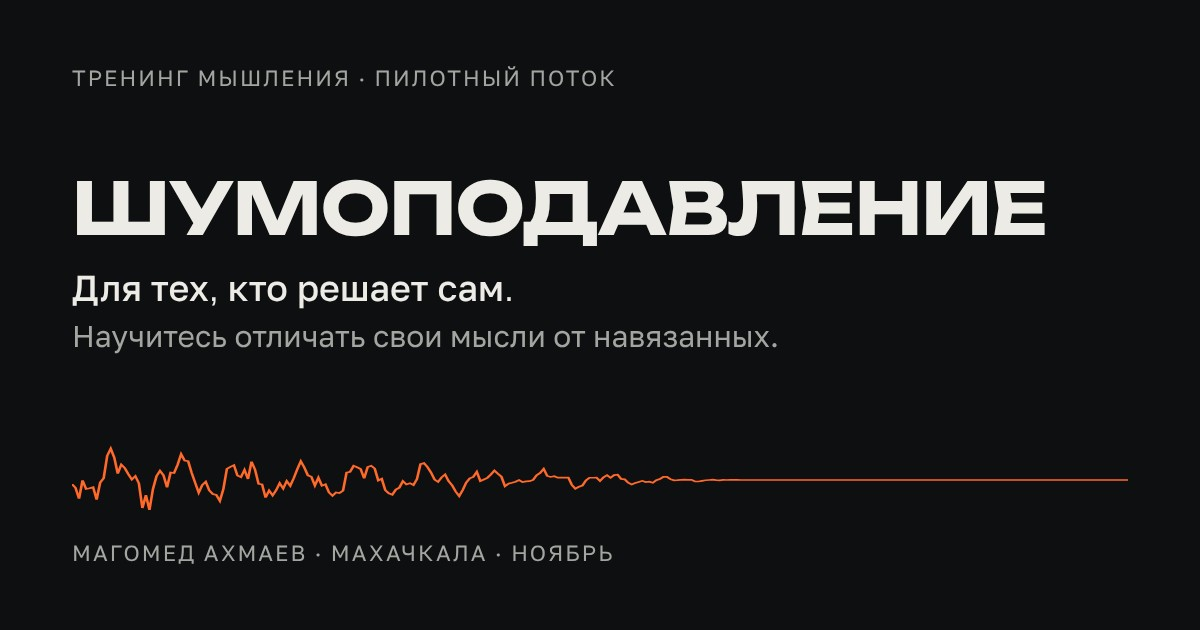
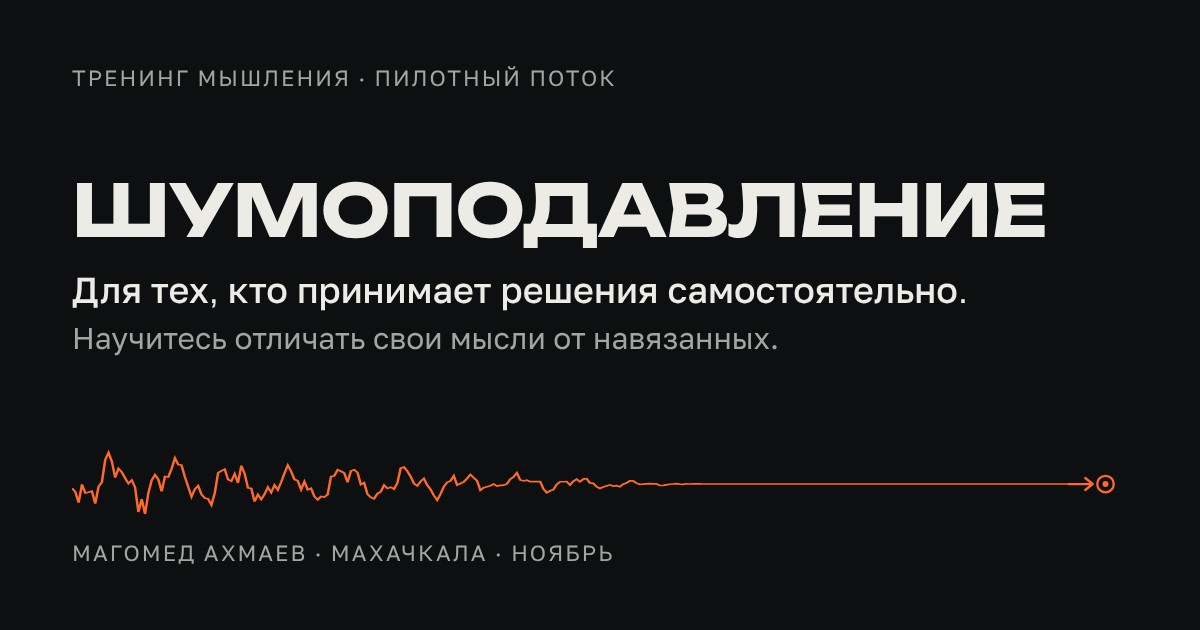
Финальные формулировки страницы «Шумоподавление»
Подзаголовок, первое лицо, новые описания режимов, «Для кого» (+2),
«Сила группы», цена 15 000 ₽ / 12 000 ₽ до 25 октября, группа от 6,
стрелка к цели в конце волны, обновлено превью.

Claude-Session: https://claude.ai/code/session_011g97CJnTaq4hGHjPpDkVKv

diff --git a/index.html b/index.html
@@ -4,10 +4,10 @@
 <meta charset="utf-8">
 <meta name="viewport" content="width=device-width, initial-scale=1">
 <title>Шумоподавление — тренинг мышления</title>
-<meta name="description" content="Тренинг мышления для тех, кто решает сам. Научитесь отличать свои мысли от навязанных. Пилотный поток Магомеда Ахмаева: Махачкала, ноябрь, 8 мест.">
+<meta name="description" content="Тренинг мышления для тех, кто принимает решения самостоятельно. Научитесь отличать свои мысли от навязанных. Пилотный поток Магомеда Ахмаева: Махачкала, ноябрь.">
 <meta property="og:type" content="website">
 <meta property="og:title" content="Шумоподавление — тренинг мышления">
-<meta property="og:description" content="Тренинг мышления для тех, кто решает сам. Научитесь отличать свои мысли от навязанных. Пилотный поток Магомеда Ахмаева: Махачкала, ноябрь, 8 мест.">
+<meta property="og:description" content="Тренинг мышления для тех, кто принимает решения самостоятельно. Научитесь отличать свои мысли от навязанных. Пилотный поток Магомеда Ахмаева: Махачкала, ноябрь.">
 <meta property="og:image" content="https://akhmaev.com/og.jpg">
 <meta property="og:url" content="https://akhmaev.com/">
 <link rel="canonical" href="https://akhmaev.com/">
@@ -44,21 +44,21 @@ a:focus-visible{outline:3px solid #FF6A2B;outline-offset:3px}
 <span style="position: absolute; left: 58%; top: 0%;">все так делают</span>
 <span style="position: absolute; left: 30%; top: 8%;">без связей не пробиться</span>
 <span style="position: absolute; left: 72%; top: 12%;">клиент выбирает по цене</span>
-<span style="position: absolute; left: 4%; top: 92%;">в моём возрасте поздно</span>
-<span style="position: absolute; left: 62%; top: 96%;">сначала стабильность</span>
-<span style="position: absolute; left: 36%; top: 100%;">так говорят</span>
+<span style="position: absolute; left: 6%; top: 130%;">в моём возрасте поздно</span>
+<span style="position: absolute; left: 48%; top: 112%;">сначала стабильность</span>
+<span style="position: absolute; left: 30%; top: 140%;">так говорят</span>
 <span style="position: absolute; left: 84%; top: 86%;">рынок мёртвый</span>
 </div>
 <div style="position: relative; padding: 110px 0 24px;">
 <h1 style="margin: 0; font-family: 'Unbounded', 'Golos Text', sans-serif; font-weight: 700; font-size: clamp(33px, 6.6vw, 78px); line-height: 1.05; letter-spacing: -0.02em; text-transform: uppercase; hyphens: manual;">Шумо&shy;подавление</h1>
 <div style="display: flex; flex-wrap: wrap; gap: 32px 48px; align-items: flex-start;">
 <div style="flex: 999 1 440px; min-width: 0;">
-<p style="margin: 28px 0 0; font-size: clamp(22px, 2.6vw, 32px); line-height: 1.25; font-weight: 500; max-width: 760px;">Тренинг мышления для тех, кто решает сам.</p>
+<p style="margin: 28px 0 0; font-size: clamp(22px, 2.6vw, 32px); line-height: 1.25; font-weight: 500; max-width: 760px;">Тренинг мышления для тех, кто принимает решения самостоятельно.</p>
 <p style="margin: 10px 0 0; font-size: clamp(19px, 2vw, 24px); line-height: 1.35; color: #A3A5A0; max-width: 760px;">Научитесь отличать свои мысли от навязанных.</p>
 <div style="display: flex; flex-wrap: wrap; gap: 16px 24px; align-items: center; margin-top: 40px;">
 <a href="https://t.me/akhmaevm" style="display: inline-flex; align-items: center; gap: 10px; min-height: 56px; padding: 0 30px; background: #FF6A2B; color: #0E0F11; text-decoration: none; font-weight: 600; font-size: 18px; border-radius: 999px;">Записаться в Telegram
 <svg width="18" height="18" viewBox="0 0 24 24" fill="none" stroke="currentColor" stroke-width="2" stroke-linecap="round" stroke-linejoin="round" aria-hidden="true"><path d="M5 12h14M13 6l6 6-6 6"></path></svg></a>
-<span style="font-size: 15px; color: #A3A5A0;">4 встречи · 6–8 человек · 12 000 ₽</span>
+<span style="font-size: 15px; color: #A3A5A0;">Напишите мне — сначала коротко поговорим, без обязательств.</span>
 </div>
 </div>
 <div style="flex: 0 1 400px; margin: 0 auto;">
@@ -66,26 +66,33 @@ a:focus-visible{outline:3px solid #FF6A2B;outline-offset:3px}
 </div>
 </div>
 </div>
-<svg viewBox="0 0 1200 160" preserveAspectRatio="none" aria-hidden="true" style="display: block; width: 100%; height: 120px;">
+<div aria-hidden="true" style="display: flex; align-items: stretch;">
+<svg viewBox="0 0 1200 160" preserveAspectRatio="none" style="display: block; flex: 1 1 auto; min-width: 0; height: 120px;">
 <path d="M0.0 89.0 L4.0 96.1 L8.0 118.6 L12.0 80.8 L16.0 98.6 L20.0 97.2 L24.0 94.8 L28.0 120.6 L32.0 85.4 L36.0 76.2 L40.0 29.8 L44.0 14.7 L48.0 33.1 L52.0 66.5 L56.0 47.8 L60.0 55.2 L64.0 67.8 L68.0 78.9 L72.0 71.9 L76.0 87.0 L80.0 138.5 L84.0 111.9 L88.0 142.8 L92.0 98.8 L96.0 72.2 L100.0 60.8 L104.0 70.1 L108.0 95.6 L112.0 64.3 L116.0 65.4 L120.0 47.8 L124.0 25.6 L128.0 39.2 L132.0 40.6 L136.0 65.0 L140.0 86.1 L144.0 106.8 L148.0 90.7 L152.0 83.9 L156.0 102.0 L160.0 109.8 L164.0 111.5 L168.0 124.0 L172.0 99.2 L176.0 56.3 L180.0 52.3 L184.0 48.5 L188.0 70.5 L192.0 74.0 L196.0 58.5 L200.0 77.9 L204.0 41.1 L208.0 57.8 L212.0 88.3 L216.0 89.5 L220.0 117.5 L224.0 102.5 L228.0 113.1 L232.0 101.8 L236.0 87.0 L240.0 98.3 L244.0 82.4 L248.0 92.6 L252.0 76.0 L256.0 57.0 L260.0 39.7 L264.0 52.9 L268.0 70.0 L272.0 72.9 L276.0 91.9 L280.0 75.0 L284.0 92.2 L288.0 89.4 L292.0 107.1 L296.0 114.2 L300.0 107.0 L304.0 108.5 L308.0 103.1 L312.0 63.8 L316.0 62.2 L320.0 49.1 L324.0 52.2 L328.0 56.0 L332.0 76.5 L336.0 51.5 L340.0 48.8 L344.0 54.9 L348.0 81.1 L352.0 77.3 L356.0 102.4 L360.0 109.4 L364.0 112.5 L368.0 101.2 L372.0 97.0 L376.0 82.5 L380.0 89.8 L384.0 87.2 L388.0 91.2 L392.0 77.8 L396.0 44.6 L400.0 42.1 L404.0 50.9 L408.0 63.3 L412.0 78.9 L416.0 84.0 L420.0 74.1 L424.0 67.4 L428.0 82.7 L432.0 92.1 L436.0 106.2 L440.0 116.9 L444.0 102.9 L448.0 85.6 L452.0 76.3 L456.0 73.0 L460.0 61.3 L464.0 82.4 L468.0 78.8 L472.0 74.9 L476.0 67.0 L480.0 57.9 L484.0 65.5 L488.0 72.4 L492.0 94.5 L496.0 88.4 L500.0 86.5 L504.0 84.0 L508.0 80.2 L512.0 85.0 L516.0 83.2 L520.0 82.7 L524.0 79.7 L528.0 68.4 L532.0 62.9 L536.0 52.8 L540.0 70.0 L544.0 72.5 L548.0 70.8 L552.0 74.2 L556.0 74.3 L560.0 73.9 L564.0 73.8 L568.0 92.2 L572.0 101.9 L576.0 97.2 L580.0 94.2 L584.0 81.1 L588.0 74.2 L592.0 74.1 L596.0 73.6 L600.0 82.5 L604.0 72.9 L608.0 67.1 L612.0 73.9 L616.0 66.7 L620.0 65.3 L624.0 77.1 L628.0 78.2 L632.0 87.8 L636.0 92.5 L640.0 88.9 L644.0 85.7 L648.0 82.4 L652.0 86.0 L656.0 85.1 L660.0 88.5 L664.0 80.7 L668.0 77.0 L672.0 69.8 L676.0 69.4 L680.0 77.2 L684.0 81.1 L688.0 80.7 L692.0 79.4 L696.0 78.8 L700.0 79.7 L704.0 79.6 L708.0 85.5 L712.0 86.6 L716.0 83.9 L720.0 81.3 L724.0 79.9 L728.0 78.4 L732.0 80.8 L736.0 82.5 L740.0 79.6 L744.0 80.2 L748.0 78.3 L752.0 77.1 L756.0 75.4 L760.0 77.0 L764.0 79.2 L768.0 80.4 L772.0 80.6 L776.0 81.2 L780.0 81.6 L784.0 81.7 L788.0 81.4 L792.0 81.9 L796.0 81.7 L800.0 79.9 L804.0 79.9 L808.0 79.7 L812.0 79.7 L816.0 79.9 L820.0 80.0 L824.0 80.0 L828.0 80.0 L832.0 80.0 L836.0 80.0 L840.0 80.0 L844.0 80.0 L848.0 80.0 L852.0 80.0 L856.0 80.0 L860.0 80.0 L864.0 80.0 L868.0 80.0 L872.0 80.0 L876.0 80.0 L880.0 80.0 L884.0 80.0 L888.0 80.0 L892.0 80.0 L896.0 80.0 L900.0 80.0 L904.0 80.0 L908.0 80.0 L912.0 80.0 L916.0 80.0 L920.0 80.0 L924.0 80.0 L928.0 80.0 L932.0 80.0 L936.0 80.0 L940.0 80.0 L944.0 80.0 L948.0 80.0 L952.0 80.0 L956.0 80.0 L960.0 80.0 L964.0 80.0 L968.0 80.0 L972.0 80.0 L976.0 80.0 L980.0 80.0 L984.0 80.0 L988.0 80.0 L992.0 80.0 L996.0 80.0 L1000.0 80.0 L1004.0 80.0 L1008.0 80.0 L1012.0 80.0 L1016.0 80.0 L1020.0 80.0 L1024.0 80.0 L1028.0 80.0 L1032.0 80.0 L1036.0 80.0 L1040.0 80.0 L1044.0 80.0 L1048.0 80.0 L1052.0 80.0 L1056.0 80.0 L1060.0 80.0 L1064.0 80.0 L1068.0 80.0 L1072.0 80.0 L1076.0 80.0 L1080.0 80.0 L1084.0 80.0 L1088.0 80.0 L1092.0 80.0 L1096.0 80.0 L1100.0 80.0 L1104.0 80.0 L1108.0 80.0 L1112.0 80.0 L1116.0 80.0 L1120.0 80.0 L1124.0 80.0 L1128.0 80.0 L1132.0 80.0 L1136.0 80.0 L1140.0 80.0 L1144.0 80.0 L1148.0 80.0 L1152.0 80.0 L1156.0 80.0 L1160.0 80.0 L1164.0 80.0 L1168.0 80.0 L1172.0 80.0 L1176.0 80.0 L1180.0 80.0 L1184.0 80.0 L1188.0 80.0 L1192.0 80.0 L1196.0 80.0 L1200.0 80.0" fill="none" stroke="#FF6A2B" stroke-width="2" stroke-linejoin="round"></path>
 </svg>
+<svg viewBox="0 0 64 120" style="display: block; flex: 0 0 64px; width: 64px; height: 120px;">
+<path d="M0 60 L32 60 M23 52 L33 60 L23 68" fill="none" stroke="#FF6A2B" stroke-width="2" stroke-linecap="round" stroke-linejoin="round"></path>
+<circle cx="50" cy="60" r="11" fill="none" stroke="#FF6A2B" stroke-width="2"></circle>
+<circle cx="50" cy="60" r="4" fill="#FF6A2B"></circle>
+</svg>
+</div>
 </header>
 
 <!-- ПРОБЛЕМА -->
 <section style="max-width: 1200px; margin: 0 auto; padding: 96px 20px; box-sizing: border-box;">
-<p style="margin: 0; font-family: 'Unbounded', 'Golos Text', sans-serif; font-weight: 500; font-size: clamp(30px, 5vw, 64px); line-height: 1.1; letter-spacing: -0.01em; max-width: 980px;">Громче всех в вашей голове — <span style="color: #FF6A2B;">не вы.</span></p>
+<p style="margin: 0; font-family: 'Unbounded', 'Golos Text', sans-serif; font-weight: 500; font-size: clamp(30px, 5vw, 64px); line-height: 1.1; letter-spacing: -0.01em; max-width: 980px;">Громче всех в вашей голове звучите не вы, а <span style="color: #FF6A2B;">шум.</span></p>
 <div style="display: flex; flex-wrap: wrap; gap: 24px 64px; margin-top: 48px;">
-<p style="flex: 1 1 320px; margin: 0; font-size: 20px; color: #C9CAC5;">«Сейчас не время». «Клиент выбирает по цене». «Без связей не пробиться». «В моём возрасте поздно». Мы слышим это так часто, что начинаем принимать за собственный вывод.</p>
+<p style="flex: 1 1 320px; margin: 0; font-size: 20px; color: #C9CAC5;">Я вижу это в себе и в людях, с которыми работаю: мы уверены во многом, что ни разу не проверяли. «Сейчас не время». «Клиент выбирает по цене». «Без связей не пробиться». «В моём возрасте поздно». Мы слышим это так часто, что начинаем принимать за собственный вывод.</p>
 <p style="flex: 1 1 320px; margin: 0; font-size: 20px; color: #C9CAC5;">Проверить всё невозможно — и не нужно. Но некоторые из этих фраз тихо решают за нас: за какую работу браться, сколько просить, когда начинать. Они стоят денег, лет и возможностей.</p>
 </div>
-<p style="margin: 40px 0 0; font-size: 22px; font-weight: 500;">Этот тренинг — про то, как вовремя заметить, что решаете не вы.</p>
+<p style="margin: 40px 0 0; font-size: 22px; font-weight: 500; max-width: 900px;">Я сделал этот тренинг, чтобы научиться замечать, где решаете не вы, — и вернуть себе управление: сначала мыслями, потом поступками, а через них — своей жизнью.</p>
 </section>
 
 <!-- ДЛЯ КОГО -->
 <section style="border-top: 1px solid #2A2D32;">
 <div style="max-width: 1200px; margin: 0 auto; padding: 96px 20px; box-sizing: border-box;">
 <h2 style="margin: 0; font-family: 'Unbounded', 'Golos Text', sans-serif; font-weight: 500; font-size: clamp(28px, 3.6vw, 44px); line-height: 1.15;">Для кого</h2>
-<div style="display: grid; grid-template-columns: repeat(auto-fit, minmax(250px, 1fr)); gap: 16px; margin-top: 40px;">
+<div style="display: grid; grid-template-columns: repeat(auto-fit, minmax(300px, 1fr)); gap: 16px; margin-top: 40px;">
 <div style="background: #17191C; padding: 28px; border-radius: 16px;">
 <h3 style="margin: 0; font-size: 20px; font-weight: 600;">Предприниматели и руководители</h3>
 <p style="margin: 10px 0 0; color: #A3A5A0;">Решения дорогие, советчиков много, а отвечать вам. Хочется понимать, на чём на самом деле стоит ваша уверенность.</p>
@@ -95,8 +102,12 @@ a:focus-visible{outline:3px solid #FF6A2B;outline-offset:3px}
 <p style="margin: 10px 0 0; color: #A3A5A0;">Давно хотите поменять работу, поднять цену, начать своё — и каждый раз находится убедительная причина подождать.</p>
 </div>
 <div style="background: #17191C; padding: 28px; border-radius: 16px;">
-<h3 style="margin: 0; font-size: 20px; font-weight: 600;">Те, кто много читает</h3>
-<p style="margin: 10px 0 0; color: #A3A5A0;">Знаете про искажения и ловушки мышления, но замечаете, что знание почти не меняет ваших решений.</p>
+<h3 style="margin: 0; font-size: 20px; font-weight: 600;">Те, кто устал от потока информации</h3>
+<p style="margin: 10px 0 0; color: #A3A5A0;">Каналы, новости, советы экспертов — мнений столько, что своё теряется. Хочется спокойно разобраться, чему верить.</p>
+</div>
+<div style="background: #17191C; padding: 28px; border-radius: 16px;">
+<h3 style="margin: 0; font-size: 20px; font-weight: 600;">Те, кто хочет рассуждать чётко</h3>
+<p style="margin: 10px 0 0; color: #A3A5A0;">Видеть, где довод держится, а где рассыпается, — в споре, в переговорах, в рекламе, в собственной голове.</p>
 </div>
 <div style="background: #17191C; padding: 28px; border-radius: 16px;">
 <h3 style="margin: 0; font-size: 20px; font-weight: 600;">Все, кто стоит на развилке</h3>
@@ -110,42 +121,49 @@ a:focus-visible{outline:3px solid #FF6A2B;outline-offset:3px}
 <section style="background: #ECEBE6; color: #0E0F11;">
 <div style="max-width: 1200px; margin: 0 auto; padding: 96px 20px; box-sizing: border-box;">
 <h2 style="margin: 0; font-family: 'Unbounded', 'Golos Text', sans-serif; font-weight: 500; font-size: clamp(28px, 3.6vw, 44px); line-height: 1.15;">Четыре режима</h2>
-<p style="margin: 16px 0 0; color: #45474C; max-width: 700px;">4 встречи по 4 часа, раз в неделю. Игры, опыты и работа в парах на ваших примерах. Теория — коротко и после того, как вы всё увидели сами.</p>
+<p style="margin: 16px 0 0; color: #45474C; max-width: 700px;">4 встречи по 4 часа с кофе-брейками, раз в неделю. Игры, опыты и работа в парах на ваших примерах. Теория — коротко и после того, как вы всё увидели сами.</p>
 <ol style="list-style: none; margin: 48px 0 0; padding: 0; display: grid; grid-template-columns: repeat(auto-fit, minmax(250px, 1fr)); gap: 40px 32px;">
 <li>
 <svg viewBox="0 0 200 40" aria-hidden="true" style="display: block; width: 100%; height: 40px;"><path d="M0.0 21.1 L3.3 27.8 L6.7 26.3 L10.0 27.3 L13.3 25.8 L16.7 19.1 L20.0 20.1 L23.3 31.8 L26.7 26.9 L30.0 25.6 L33.3 30.1 L36.7 18.2 L40.0 16.5 L43.3 8.9 L46.7 10.3 L50.0 7.2 L53.3 15.8 L56.7 20.7 L60.0 17.2 L63.3 18.5 L66.7 16.7 L70.0 10.5 L73.3 21.6 L76.7 25.1 L80.0 27.3 L83.3 27.6 L86.7 37.1 L90.0 29.6 L93.3 27.8 L96.7 25.5 L100.0 21.7 L103.3 24.1 L106.7 19.2 L110.0 23.8 L113.3 17.7 L116.7 19.2 L120.0 14.1 L123.3 2.5 L126.7 3.2 L130.0 7.8 L133.3 21.7 L136.7 21.1 L140.0 26.4 L143.3 23.3 L146.7 24.5 L150.0 21.9 L153.3 21.9 L156.7 26.8 L160.0 29.9 L163.3 35.6 L166.7 32.6 L170.0 31.5 L173.3 24.8 L176.7 20.4 L180.0 13.0 L183.3 6.5 L186.7 16.0 L190.0 19.7 L193.3 20.6 L196.7 16.5 L200.0 16.4" fill="none" stroke="#0E0F11" stroke-width="2"></path></svg>
 <div style="margin-top: 16px; font-size: 13px; letter-spacing: 0.08em; text-transform: uppercase; color: #5C5E63;">Режим 1</div>
 <h3 style="margin: 6px 0 0; font-family: 'Unbounded', 'Golos Text', sans-serif; font-weight: 500; font-size: 26px;">Шум</h3>
 <p style="margin: 6px 0 0; font-weight: 600;">Сколько в вашей голове — вашего.</p>
-<p style="margin: 10px 0 0; color: #3A3C42;">Берём фразы, в которых вы уверены, и выясняем, на чём держится эта уверенность.</p>
-<p style="margin: 12px 0 0; color: #3A3C42;"><span style="color: #B4440F; font-weight: 600;">→</span> Вопрос «Откуда я это знаю?»: пять шагов, которые за пару минут отделяют опыт от чужих слов.</p>
+<p style="margin: 10px 0 0; color: #3A3C42;">Игры и опыты, в которых видно, как чужие мысли попадают в нашу уверенность. Иногда для этого хватает одной случайной цифры на карточке.</p>
+<p style="margin: 14px 0 0; color: #3A3C42;"><span style="display: block; font-size: 12px; letter-spacing: 0.08em; text-transform: uppercase; color: #B4440F; font-weight: 600;">Вы уносите</span>Свои убеждения, разделённые на две части: что вы знаете сами и что взяли с чужих слов.</p>
+<p style="margin: 12px 0 0; color: #3A3C42;"><span style="display: block; font-size: 12px; letter-spacing: 0.08em; text-transform: uppercase; color: #5C5E63; font-weight: 600;">Что с этим делать</span>Чужое не значит ложное. Выбрасывать ничего не нужно — впервые вы сами выбираете, на что опираться.</p>
 </li>
 <li>
 <svg viewBox="0 0 200 40" aria-hidden="true" style="display: block; width: 100%; height: 40px;"><path d="M0.0 20.6 L3.3 21.6 L6.7 23.6 L10.0 21.2 L13.3 19.7 L16.7 21.6 L20.0 25.6 L23.3 26.2 L26.7 26.9 L30.0 23.0 L33.3 22.7 L36.7 17.8 L40.0 14.0 L43.3 11.6 L46.7 12.1 L50.0 17.7 L53.3 18.9 L56.7 20.0 L60.0 20.2 L63.3 15.8 L66.7 15.9 L70.0 18.3 L73.3 20.7 L76.7 24.4 L80.0 27.6 L83.3 24.5 L86.7 27.8 L90.0 26.5 L93.3 23.0 L96.7 18.7 L100.0 19.4 L103.3 17.1 L106.7 22.9 L110.0 22.5 L113.3 19.4 L116.7 15.6 L120.0 16.9 L123.3 13.3 L126.7 15.4 L130.0 17.2 L133.3 18.1 L136.7 20.4 L140.0 23.4 L143.3 22.6 L146.7 20.3 L150.0 20.6 L153.3 23.9 L156.7 20.4 L160.0 22.1 L163.3 26.9 L166.7 24.4 L170.0 23.9 L173.3 20.3 L176.7 16.2 L180.0 18.1 L183.3 12.8 L186.7 15.0 L190.0 15.1 L193.3 18.6 L196.7 16.3 L200.0 15.8" fill="none" stroke="#0E0F11" stroke-width="2"></path></svg>
 <div style="margin-top: 16px; font-size: 13px; letter-spacing: 0.08em; text-transform: uppercase; color: #5C5E63;">Режим 2</div>
 <h3 style="margin: 6px 0 0; font-family: 'Unbounded', 'Golos Text', sans-serif; font-weight: 500; font-size: 26px;">Фильтр</h3>
-<p style="margin: 6px 0 0; font-weight: 600;">Где ломается довод.</p>
-<p style="margin: 10px 0 0; color: #3A3C42;">Как устроено любое убеждение и куда в нём прячется чужое. Учимся доставать спрятанный шаг и чинить довод, а не выбрасывать.</p>
-<p style="margin: 12px 0 0; color: #3A3C42;"><span style="color: #B4440F; font-weight: 600;">→</span> Справочник ловушек, на которых держатся навязанные мысли.</p>
+<p style="margin: 6px 0 0; font-weight: 600;">Где ломается убеждение.</p>
+<p style="margin: 10px 0 0; color: #3A3C42;">Как устроена любая установка и где в неё прячется чужое. Плюс опыт, после которого вы иначе посмотрите на собственные доводы.</p>
+<p style="margin: 14px 0 0; color: #3A3C42;"><span style="display: block; font-size: 12px; letter-spacing: 0.08em; text-transform: uppercase; color: #B4440F; font-weight: 600;">Вы уносите</span>Одно своё убеждение, разобранное до основания: на чём оно держится, где перестаёт работать и в каком виде его стоит оставить. И справочник ловушек, чтобы дальше разбирать самому.</p>
+<p style="margin: 12px 0 0; color: #3A3C42;"><span style="display: block; font-size: 12px; letter-spacing: 0.08em; text-transform: uppercase; color: #5C5E63; font-weight: 600;">Что с этим делать</span>Мы как моряки, которые перестраивают свой корабль в открытом море (Нейрат). Сносить всё, во что верили, не нужно — достаточно менять доску за доской, стоя на остальных.</p>
 </li>
 <li>
 <svg viewBox="0 0 200 40" aria-hidden="true" style="display: block; width: 100%; height: 40px;"><path d="M0.0 21.4 L3.3 22.5 L6.7 22.8 L10.0 22.8 L13.3 21.8 L16.7 22.2 L20.0 20.1 L23.3 21.9 L26.7 23.6 L30.0 22.6 L33.3 22.3 L36.7 18.6 L40.0 18.1 L43.3 16.6 L46.7 17.3 L50.0 18.0 L53.3 17.2 L56.7 18.4 L60.0 18.6 L63.3 20.1 L66.7 19.4 L70.0 17.9 L73.3 20.5 L76.7 20.0 L80.0 22.7 L83.3 22.2 L86.7 21.8 L90.0 23.5 L93.3 20.5 L96.7 19.5 L100.0 21.2 L103.3 20.9 L106.7 19.5 L110.0 21.4 L113.3 19.7 L116.7 19.1 L120.0 16.6 L123.3 18.0 L126.7 17.4 L130.0 19.0 L133.3 20.2 L136.7 19.9 L140.0 20.9 L143.3 20.5 L146.7 20.1 L150.0 19.6 L153.3 20.3 L156.7 21.7 L160.0 20.9 L163.3 23.3 L166.7 22.2 L170.0 21.2 L173.3 21.1 L176.7 18.7 L180.0 17.2 L183.3 17.5 L186.7 18.6 L190.0 17.4 L193.3 20.3 L196.7 17.6 L200.0 19.2" fill="none" stroke="#0E0F11" stroke-width="2"></path></svg>
 <div style="margin-top: 16px; font-size: 13px; letter-spacing: 0.08em; text-transform: uppercase; color: #5C5E63;">Режим 3</div>
 <h3 style="margin: 6px 0 0; font-family: 'Unbounded', 'Golos Text', sans-serif; font-weight: 500; font-size: 26px;">Сигнал</h3>
 <p style="margin: 6px 0 0; font-weight: 600;">Факт или додумали.</p>
-<p style="margin: 10px 0 0; color: #3A3C42;">Опыт, на котором попадаются почти все — даже те, кто читал про когнитивные искажения. Потом — ваша реальная ситуация.</p>
-<p style="margin: 12px 0 0; color: #3A3C42;"><span style="color: #B4440F; font-weight: 600;">→</span> Привычка спрашивать: «Это видно на камере — или это у меня в голове?»</p>
+<p style="margin: 10px 0 0; color: #3A3C42;">Почему мы видим то, что ожидаем, и ищем только подтверждения. Сначала опыт, на котором попадаются почти все, даже знатоки когнитивных искажений. Потом — ваша реальная ситуация.</p>
+<p style="margin: 14px 0 0; color: #3A3C42;"><span style="display: block; font-size: 12px; letter-spacing: 0.08em; text-transform: uppercase; color: #B4440F; font-weight: 600;">Вы уносите</span>Свою текущую ситуацию, разложенную на три части: что произошло на самом деле, что вы досочинили и какой факт доказал бы, что вы неправы, — и где его найти.</p>
+<p style="margin: 12px 0 0; color: #3A3C42;"><span style="display: block; font-size: 12px; letter-spacing: 0.08em; text-transform: uppercase; color: #5C5E63; font-weight: 600;">Что с этим делать</span>Знание — это догадка, которая пережила попытку её опровергнуть (Поппер). Ищите не подтверждения своей правоты, а место, где можете ошибаться. Выход обычно там.</p>
 </li>
 <li>
-<svg viewBox="0 0 200 40" aria-hidden="true" style="display: block; width: 100%; height: 40px;"><path d="M0.0 20.0 L3.3 20.0 L6.7 20.0 L10.0 20.0 L13.3 20.0 L16.7 20.0 L20.0 20.0 L23.3 20.0 L26.7 20.0 L30.0 20.0 L33.3 20.0 L36.7 20.0 L40.0 20.0 L43.3 20.0 L46.7 20.0 L50.0 20.0 L53.3 20.0 L56.7 20.0 L60.0 20.0 L63.3 20.0 L66.7 20.0 L70.0 20.0 L73.3 20.0 L76.7 20.0 L80.0 20.0 L83.3 20.0 L86.7 20.0 L90.0 20.0 L93.3 20.0 L96.7 20.0 L100.0 20.0 L103.3 20.0 L106.7 20.0 L110.0 20.0 L113.3 20.0 L116.7 20.0 L120.0 20.0 L123.3 20.0 L126.7 20.0 L130.0 20.0 L133.3 20.0 L136.7 20.0 L140.0 20.0 L143.3 20.0 L146.7 20.0 L150.0 20.0 L153.3 20.0 L156.7 20.0 L160.0 20.0 L163.3 20.0 L166.7 20.0 L170.0 20.0 L173.3 20.0 L176.7 20.0 L180.0 20.0 L183.3 20.0 L186.7 20.0 L190.0 20.0 L193.3 20.0 L196.7 20.0 L200.0 20.0" fill="none" stroke="#B4440F" stroke-width="2.5"></path></svg>
+<svg viewBox="0 0 200 40" aria-hidden="true" style="display: block; width: 100%; height: 40px;"><path d="M0 20 L168 20 M160 13 L170 20 L160 27" fill="none" stroke="#B4440F" stroke-width="2.5" stroke-linecap="round" stroke-linejoin="round"></path><circle cx="186" cy="20" r="8" fill="none" stroke="#B4440F" stroke-width="2"></circle><circle cx="186" cy="20" r="3" fill="#B4440F"></circle></svg>
 <div style="margin-top: 16px; font-size: 13px; letter-spacing: 0.08em; text-transform: uppercase; color: #B4440F;">Режим 4</div>
 <h3 style="margin: 6px 0 0; font-family: 'Unbounded', 'Golos Text', sans-serif; font-weight: 500; font-size: 26px;">Решение</h3>
 <p style="margin: 6px 0 0; font-weight: 600;">Своим умом.</p>
-<p style="margin: 10px 0 0; color: #3A3C42;">Берёте решение, которое давно откладываете, и проверяете всем, чему научились.</p>
-<p style="margin: 12px 0 0; color: #3A3C42;"><span style="color: #B4440F; font-weight: 600;">→</span> Решение, пробный шаг или честное «не сейчас» — с причиной и датой.</p>
+<p style="margin: 10px 0 0; color: #3A3C42;">Берёте решение, которое давно откладываете, и проверяете его всем, чему научились.</p>
+<p style="margin: 14px 0 0; color: #3A3C42;"><span style="display: block; font-size: 12px; letter-spacing: 0.08em; text-transform: uppercase; color: #B4440F; font-weight: 600;">Вы уносите</span>Решение, пробный шаг или честное «не сейчас» — с причиной и датой.</p>
+<p style="margin: 12px 0 0; color: #3A3C42;"><span style="display: block; font-size: 12px; letter-spacing: 0.08em; text-transform: uppercase; color: #5C5E63; font-weight: 600;">Что с этим делать</span>Имей мужество пользоваться собственным умом (Кант). Первые три встречи были про ум, эта — про мужество.</p>
 </li>
 </ol>
-<p style="margin: 48px 0 0; padding: 20px 24px; background: #FFFFFF; border-radius: 12px; max-width: 760px;"><strong>+ Встреча выпускников</strong> через две недели, бесплатно: что получилось, что помешало, что дальше.</p>
+<div style="display: grid; grid-template-columns: repeat(auto-fit, minmax(300px, 1fr)); gap: 16px; margin-top: 48px;">
+<div style="padding: 24px; background: #FFFFFF; border-radius: 12px;"><h3 style="margin: 0; font-size: 18px; font-weight: 600;">+ Встреча выпускников</h3><p style="margin: 8px 0 0; color: #3A3C42;">Через две недели, бесплатно: что получилось, что помешало, что дальше.</p></div>
+<div style="padding: 24px; background: #FFFFFF; border-radius: 12px;"><h3 style="margin: 0; font-size: 18px; font-weight: 600;">Сила группы</h3><p style="margin: 8px 0 0; color: #3A3C42;">За 85 с лишним тренингов я не раз видел одно и то же: когда несколько человек честно разбирают свои убеждения, каждый узнаёт своё в чужом примере. Чужой простой вопрос часто открывает больше, чем умная книга. Это работает, если приходить не наблюдать, а участвовать.</p></div>
+</div>
 </div>
 </section>
 
@@ -155,15 +173,15 @@ a:focus-visible{outline:3px solid #FF6A2B;outline-offset:3px}
 <div style="display: grid; grid-template-columns: repeat(auto-fit, minmax(250px, 1fr)); gap: 32px 48px; margin-top: 40px;">
 <div style="border-top: 2px solid #FF6A2B; padding-top: 18px;">
 <h3 style="margin: 0; font-size: 20px; font-weight: 600;">Самая низкая цена</h3>
-<p style="margin: 8px 0 0; color: #A3A5A0;">Следующие потоки будут дороже. Дешевле, чем сейчас, этот тренинг уже не будет.</p>
+<p style="margin: 8px 0 0; color: #A3A5A0;">Следующие потоки будут дороже. А при оплате до 25 октября действует ранняя цена.</p>
 </div>
 <div style="border-top: 1px solid #3A3D43; padding-top: 18px;">
-<h3 style="margin: 0; font-size: 20px; font-weight: 600;">Максимум внимания</h3>
-<p style="margin: 8px 0 0; color: #A3A5A0;">Восемь человек — это время и внимание ведущего для каждого, а не место в зале.</p>
+<h3 style="margin: 0; font-size: 20px; font-weight: 600;">Малая группа</h3>
+<p style="margin: 8px 0 0; color: #A3A5A0;">У меня будет время и внимание для каждого, а у вас — не место в зале, а место за столом.</p>
 </div>
 <div style="border-top: 1px solid #3A3D43; padding-top: 18px;">
 <h3 style="margin: 0; font-size: 20px; font-weight: 600;">Вы влияете на программу</h3>
-<p style="margin: 8px 0 0; color: #A3A5A0;">Ваша обратная связь после каждой встречи меняет тренинг — уже для вашей группы.</p>
+<p style="margin: 8px 0 0; color: #A3A5A0;">Я буду менять программу по вашей обратной связи — уже для вашей группы.</p>
 </div>
 <div style="border-top: 1px solid #3A3D43; padding-top: 18px;">
 <h3 style="margin: 0; font-size: 20px; font-weight: 600;">Первыми — дальше</h3>
@@ -181,13 +199,13 @@ a:focus-visible{outline:3px solid #FF6A2B;outline-offset:3px}
 <div style="flex: 999 1 520px; min-width: 0;">
 <div style="font-size: 13px; letter-spacing: 0.08em; text-transform: uppercase; color: #A3A5A0;">Ведущий</div>
 <h2 style="margin: 8px 0 0; font-family: 'Unbounded', 'Golos Text', sans-serif; font-weight: 500; font-size: clamp(28px, 3.6vw, 44px); line-height: 1.15;">Магомед Ахмаев</h2>
-<p style="margin: 10px 0 0; color: #A3A5A0; font-size: 16px;">Философ-практик, предприниматель, психолог. Президент Федерации Го Республики Дагестан.</p>
+<p style="margin: 10px 0 0; color: #A3A5A0; font-size: 16px;">Философ-практик, тренер по развитию мышления, психолог. Президент Федерации Го Республики Дагестан.</p>
 <div style="display: flex; flex-wrap: wrap; gap: 24px 56px; margin-top: 36px;">
 <div><div style="font-family: 'Unbounded', 'Golos Text', sans-serif; font-weight: 700; font-size: 52px; line-height: 1; color: #FF6A2B;">10+</div><div style="margin-top: 8px; color: #C9CAC5;">лет опыта в руководстве</div></div>
 <div><div style="font-family: 'Unbounded', 'Golos Text', sans-serif; font-weight: 700; font-size: 52px; line-height: 1; color: #FF6A2B;">85+</div><div style="margin-top: 8px; color: #C9CAC5;">тренингов и лекций</div></div>
 </div>
 <p style="margin: 36px 0 0; font-size: 20px; color: #DADBD6;">Пишу о лидерстве, свободе и победах, которые заслуживают, а не захватывают.</p>
-<p style="margin: 14px 0 0; font-size: 20px; color: #DADBD6;">На тренинге я не эксперт, который знает, как вам жить. Я даю инструменты и задаю вопросы. Выводы — ваши.</p>
+<p style="margin: 14px 0 0; font-size: 20px; color: #DADBD6;">На тренинге я не эксперт, который знает, как вам жить. Я дам инструменты и задам вопросы, которые помогут услышать себя. А выводы — ваши.</p>
 <a href="https://t.me/akhmaev_mind" style="display: inline-flex; align-items: center; gap: 8px; min-height: 44px; margin-top: 20px; font-weight: 500;">Канал «Философский камень»
 <svg width="16" height="16" viewBox="0 0 24 24" fill="none" stroke="currentColor" stroke-width="2" stroke-linecap="round" stroke-linejoin="round" aria-hidden="true"><path d="M7 17L17 7M8 7h9v9"></path></svg></a>
 </div>
@@ -199,16 +217,17 @@ a:focus-visible{outline:3px solid #FF6A2B;outline-offset:3px}
 <h2 style="margin: 0; font-family: 'Unbounded', 'Golos Text', sans-serif; font-weight: 500; font-size: clamp(28px, 3.6vw, 44px); line-height: 1.15;">Формат и цена</h2>
 <div style="display: flex; flex-wrap: wrap; gap: 48px; margin-top: 40px; align-items: flex-start;">
 <dl style="flex: 999 1 460px; min-width: 0; margin: 0; display: grid; grid-template-columns: minmax(100px, 150px) minmax(0, 1fr); gap: 18px 24px;">
-<dt style="color: #A3A5A0;">Встречи</dt><dd style="margin: 0;">4 встречи по 4 часа, раз в неделю, вживую</dd>
+<dt style="color: #A3A5A0;">Встречи</dt><dd style="margin: 0;">4 встречи по 4 часа с кофе-брейками, раз в неделю, вживую</dd>
 <dt style="color: #A3A5A0;">Плюс</dt><dd style="margin: 0;">встреча выпускников через две недели — бесплатно</dd>
-<dt style="color: #A3A5A0;">Группа</dt><dd style="margin: 0;">6–8 человек</dd>
+<dt style="color: #A3A5A0;">Группа</dt><dd style="margin: 0;">от 6 человек</dd>
 <dt style="color: #A3A5A0;">Старт</dt><dd style="margin: 0;">Ноябрь</dd>
 <dt style="color: #A3A5A0;">Где</dt><dd style="margin: 0;">Махачкала. Точное место сообщу при записи</dd>
 </dl>
 <div style="flex: 1 1 300px; background: #ECEBE6; color: #0E0F11; padding: 32px; border-radius: 20px; box-sizing: border-box;">
 <div style="font-size: 13px; letter-spacing: 0.08em; text-transform: uppercase; color: #45474C;">Пилотный поток</div>
-<div style="margin-top: 12px; font-family: 'Unbounded', 'Golos Text', sans-serif; font-weight: 700; font-size: 44px; line-height: 1; white-space: nowrap;">12 000 ₽</div>
-<p style="margin: 12px 0 0; color: #3A3C42;">за весь месяц. Дальше будет дороже.</p>
+<div style="margin-top: 12px; font-family: 'Unbounded', 'Golos Text', sans-serif; font-weight: 700; font-size: 44px; line-height: 1; white-space: nowrap;">15 000 ₽</div>
+<p style="margin: 10px 0 0; color: #3A3C42;">за весь месяц</p>
+<p style="margin: 16px 0 0; padding: 12px 14px; background: #FFFFFF; border-radius: 12px; color: #0E0F11;">Ранняя цена — <strong style="color: #B4440F; white-space: nowrap;">12 000 ₽</strong> при оплате до 25 октября</p>
 <a href="https://t.me/akhmaevm" style="display: flex; align-items: center; justify-content: center; min-height: 54px; margin-top: 24px; background: #0E0F11; color: #ECEBE6; text-decoration: none; font-weight: 600; border-radius: 999px;">Записаться</a>
 </div>
 </div>
@@ -219,8 +238,8 @@ a:focus-visible{outline:3px solid #FF6A2B;outline-offset:3px}
 <div style="max-width: 1200px; margin: 0 auto; padding: 96px 20px; box-sizing: border-box;">
 <h2 style="margin: 0; font-family: 'Unbounded', 'Golos Text', sans-serif; font-weight: 500; font-size: clamp(28px, 3.6vw, 44px); line-height: 1.15;">Как записаться</h2>
 <ol style="list-style: none; margin: 40px 0 0; padding: 0; display: grid; grid-template-columns: repeat(auto-fit, minmax(250px, 1fr)); gap: 32px;">
-<li><div style="font-family: 'Unbounded', 'Golos Text', sans-serif; font-weight: 700; font-size: 40px; line-height: 1; color: #FF6A2B;">1</div><h3 style="margin: 14px 0 0; font-size: 20px; font-weight: 600;">Напишите в Telegram</h3><p style="margin: 8px 0 0; color: #A3A5A0;">Достаточно одного слова: «Шумоподавление».</p></li>
-<li><div style="font-family: 'Unbounded', 'Golos Text', sans-serif; font-weight: 700; font-size: 40px; line-height: 1; color: #FF6A2B;">2</div><h3 style="margin: 14px 0 0; font-size: 20px; font-weight: 600;">Поговорим 10 минут</h3><p style="margin: 8px 0 0; color: #A3A5A0;">Расскажете, что хотите получить. Я честно скажу, подойдёт ли вам этот формат или лучше другой.</p></li>
+<li><div style="font-family: 'Unbounded', 'Golos Text', sans-serif; font-weight: 700; font-size: 40px; line-height: 1; color: #FF6A2B;">1</div><h3 style="margin: 14px 0 0; font-size: 20px; font-weight: 600;">Напишите мне в Telegram</h3><p style="margin: 8px 0 0; color: #A3A5A0;">Достаточно одного слова: «Шумоподавление».</p></li>
+<li><div style="font-family: 'Unbounded', 'Golos Text', sans-serif; font-weight: 700; font-size: 40px; line-height: 1; color: #FF6A2B;">2</div><h3 style="margin: 14px 0 0; font-size: 20px; font-weight: 600;">Поговорим 10 минут</h3><p style="margin: 8px 0 0; color: #A3A5A0;">Расскажете, что хотите получить, а я честно скажу, подойдёт ли вам этот формат.</p></li>
 <li><div style="font-family: 'Unbounded', 'Golos Text', sans-serif; font-weight: 700; font-size: 40px; line-height: 1; color: #FF6A2B;">3</div><h3 style="margin: 14px 0 0; font-size: 20px; font-weight: 600;">Бронь и оплата</h3><p style="margin: 8px 0 0; color: #A3A5A0;">После разговора. Место закрепляется за вами.</p></li>
 </ol>
 </div>
@@ -233,11 +252,11 @@ a:focus-visible{outline:3px solid #FF6A2B;outline-offset:3px}
 <div style="margin-top: 32px; max-width: 840px;">
 <div style="border-top: 1px solid #2A2D32; padding: 24px 0;">
 <h3 style="margin: 0; font-size: 20px; font-weight: 600;">Нужна ли подготовка? Я не философ и не логик.</h3>
-<p style="margin: 8px 0 0; color: #A3A5A0;">Нет. Работаем на понятных примерах из работы, денег и жизни. Единственное, что стоит принести, — вопрос или решение, которое вас занимает.</p>
+<p style="margin: 8px 0 0; color: #A3A5A0;">Нет. Мы работаем на понятных примерах из работы, денег и жизни. Единственное, что стоит принести, — вопрос или решение, которое вас занимает.</p>
 </div>
 <div style="border-top: 1px solid #2A2D32; padding: 24px 0;">
 <h3 style="margin: 0; font-size: 20px; font-weight: 600;">Чем это отличается от курса критического мышления?</h3>
-<p style="margin: 8px 0 0; color: #A3A5A0;">Курсы учат думать «правильно» и разбирать чужие ошибки. Здесь вы разбираете свои убеждения — и доводите это до реального решения.</p>
+<p style="margin: 8px 0 0; color: #A3A5A0;">Курсы учат думать «правильно» и разбирать чужие ошибки. У меня вы разбираете свои убеждения — и доводите это до реального решения.</p>
 </div>
 <div style="border-top: 1px solid #2A2D32; padding: 24px 0;">
 <h3 style="margin: 0; font-size: 20px; font-weight: 600;">Будет ли польза для работы?</h3>
@@ -245,15 +264,15 @@ a:focus-visible{outline:3px solid #FF6A2B;outline-offset:3px}
 </div>
 <div style="border-top: 1px solid #2A2D32; padding: 24px 0;">
 <h3 style="margin: 0; font-size: 20px; font-weight: 600;">Придётся рассказывать о личном?</h3>
-<p style="margin: 8px 0 0; color: #A3A5A0;">Только то, чем вы сами захотите поделиться. Разбираем, как вы рассуждаете, а не вашу биографию. Сказать «пас» можно всегда.</p>
+<p style="margin: 8px 0 0; color: #A3A5A0;">Только то, чем вы сами захотите поделиться. Мы разбираем, как вы рассуждаете, а не вашу биографию. Сказать «пас» можно всегда.</p>
 </div>
 <div style="border-top: 1px solid #2A2D32; padding: 24px 0;">
 <h3 style="margin: 0; font-size: 20px; font-weight: 600;">А если пропущу встречу?</h3>
-<p style="margin: 8px 0 0; color: #A3A5A0;">Предупредите заранее — договоримся, как догнать группу.</p>
+<p style="margin: 8px 0 0; color: #A3A5A0;">Предупредите меня заранее — договоримся, как догнать группу.</p>
 </div>
 <div style="border-top: 1px solid #2A2D32; border-bottom: 1px solid #2A2D32; padding: 24px 0;">
 <h3 style="margin: 0; font-size: 20px; font-weight: 600;">Будет ли онлайн-версия?</h3>
-<p style="margin: 8px 0 0; color: #A3A5A0;">Пилот проходит только вживую: многое держится на работе в парах и в зале.</p>
+<p style="margin: 8px 0 0; color: #A3A5A0;">Пилот я провожу только вживую: многое держится на работе в парах и в зале.</p>
 </div>
 </div>
 </div>
@@ -263,7 +282,7 @@ a:focus-visible{outline:3px solid #FF6A2B;outline-offset:3px}
 <footer style="background: #FF6A2B; color: #0E0F11;">
 <div style="max-width: 1200px; margin: 0 auto; padding: 96px 20px 48px; box-sizing: border-box;">
 <p style="margin: 0; font-family: 'Unbounded', 'Golos Text', sans-serif; font-weight: 700; font-size: clamp(30px, 5.4vw, 68px); line-height: 1.05; letter-spacing: -0.01em; max-width: 960px;">В вашей голове слишком громко?</p>
-<p style="margin: 20px 0 0; font-size: 21px; max-width: 640px;">Приходите с решением, которое откладываете дольше всего. Восемь мест, пилотный поток.</p>
+<p style="margin: 20px 0 0; font-size: 21px; max-width: 640px;">Приходите с решением, которое откладываете дольше всего. Пилотный поток, старт в ноябре. Буду рад познакомиться.</p>
 <a href="https://t.me/akhmaevm" style="display: inline-flex; align-items: center; gap: 10px; min-height: 56px; margin-top: 32px; padding: 0 30px; background: #0E0F11; color: #ECEBE6; text-decoration: none; font-weight: 600; font-size: 18px; border-radius: 999px;">Записаться в Telegram
 <svg width="18" height="18" viewBox="0 0 24 24" fill="none" stroke="currentColor" stroke-width="2" stroke-linecap="round" stroke-linejoin="round" aria-hidden="true"><path d="M5 12h14M13 6l6 6-6 6"></path></svg></a>
 <div style="margin-top: 80px; padding-top: 20px; border-top: 1px solid rgba(14,15,17,0.3); font-size: 14px; display: flex; flex-wrap: wrap; gap: 12px; justify-content: space-between;">
